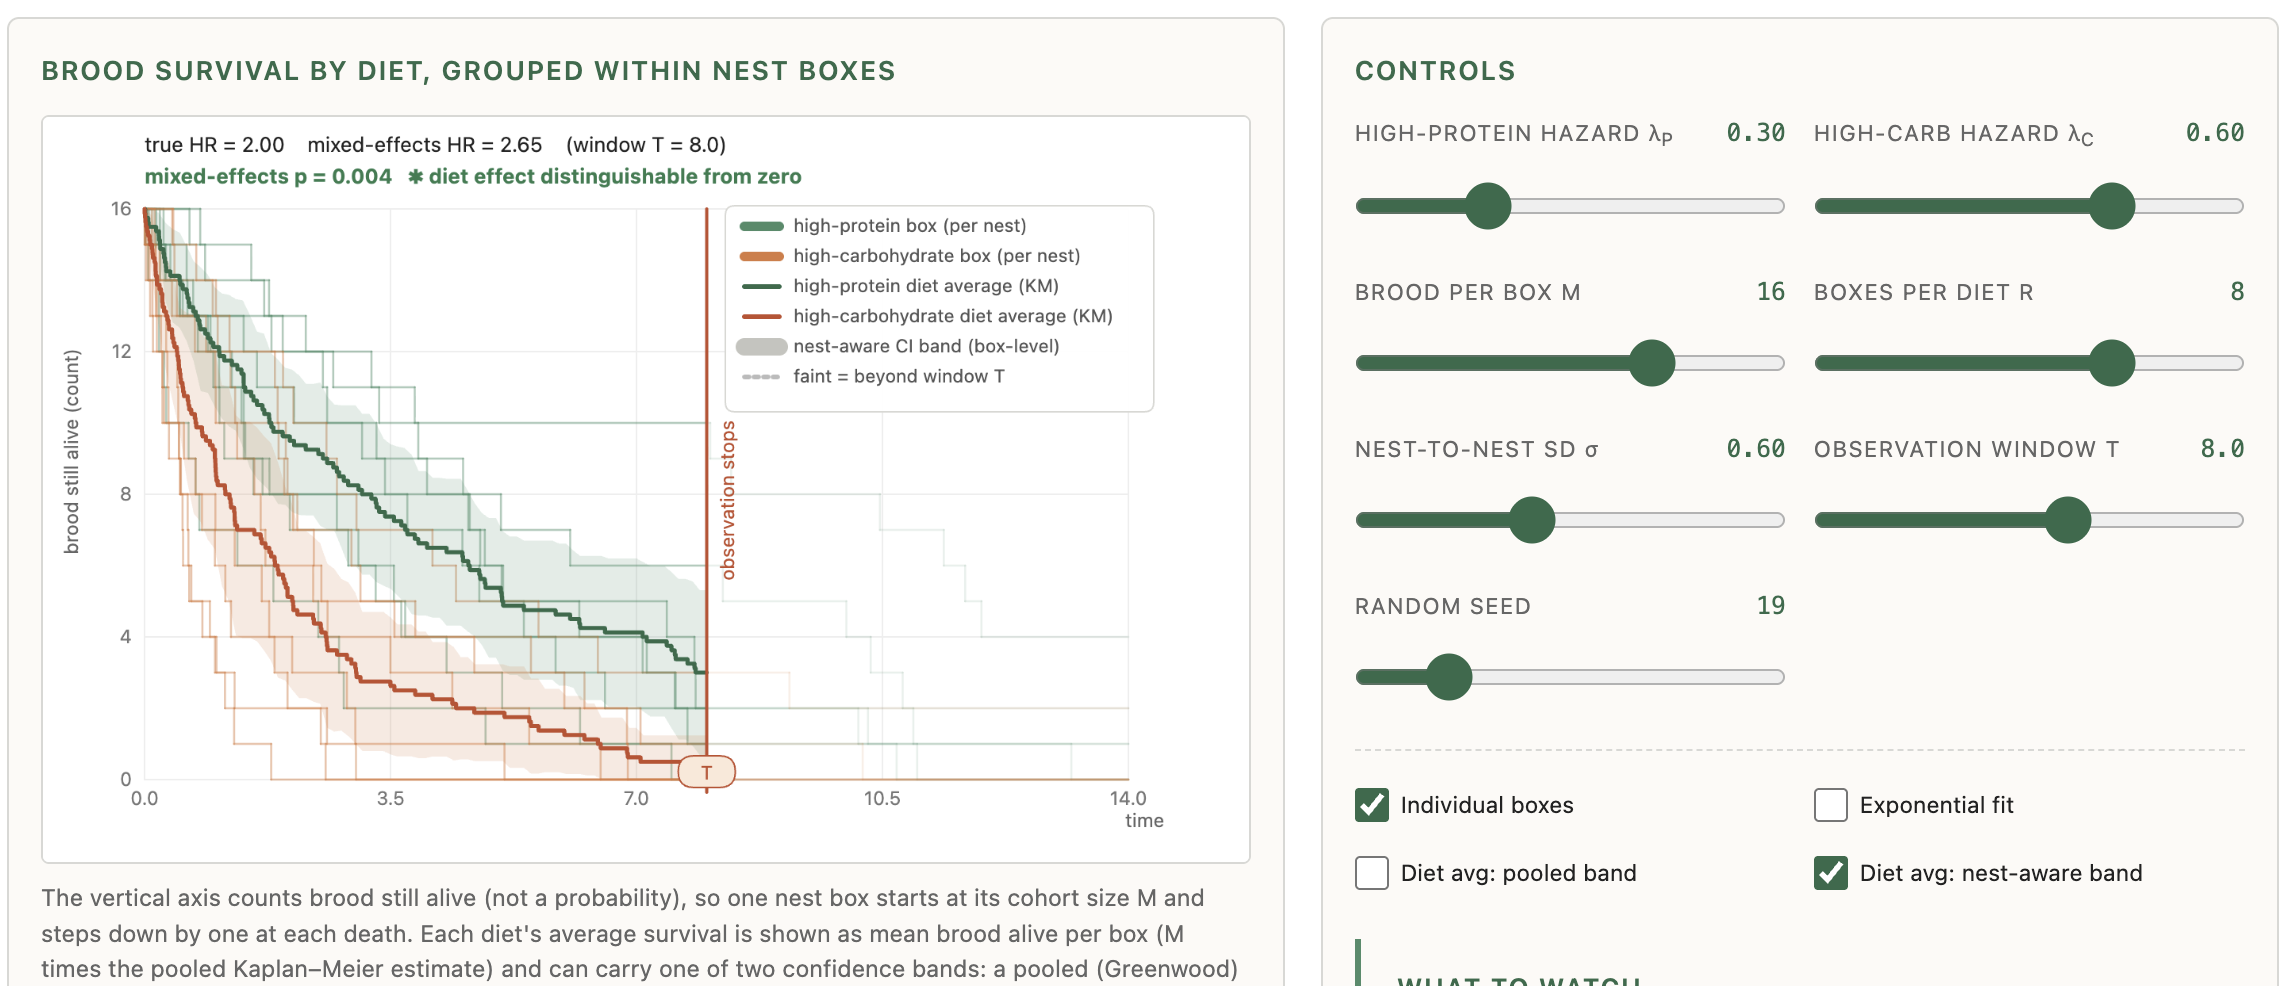
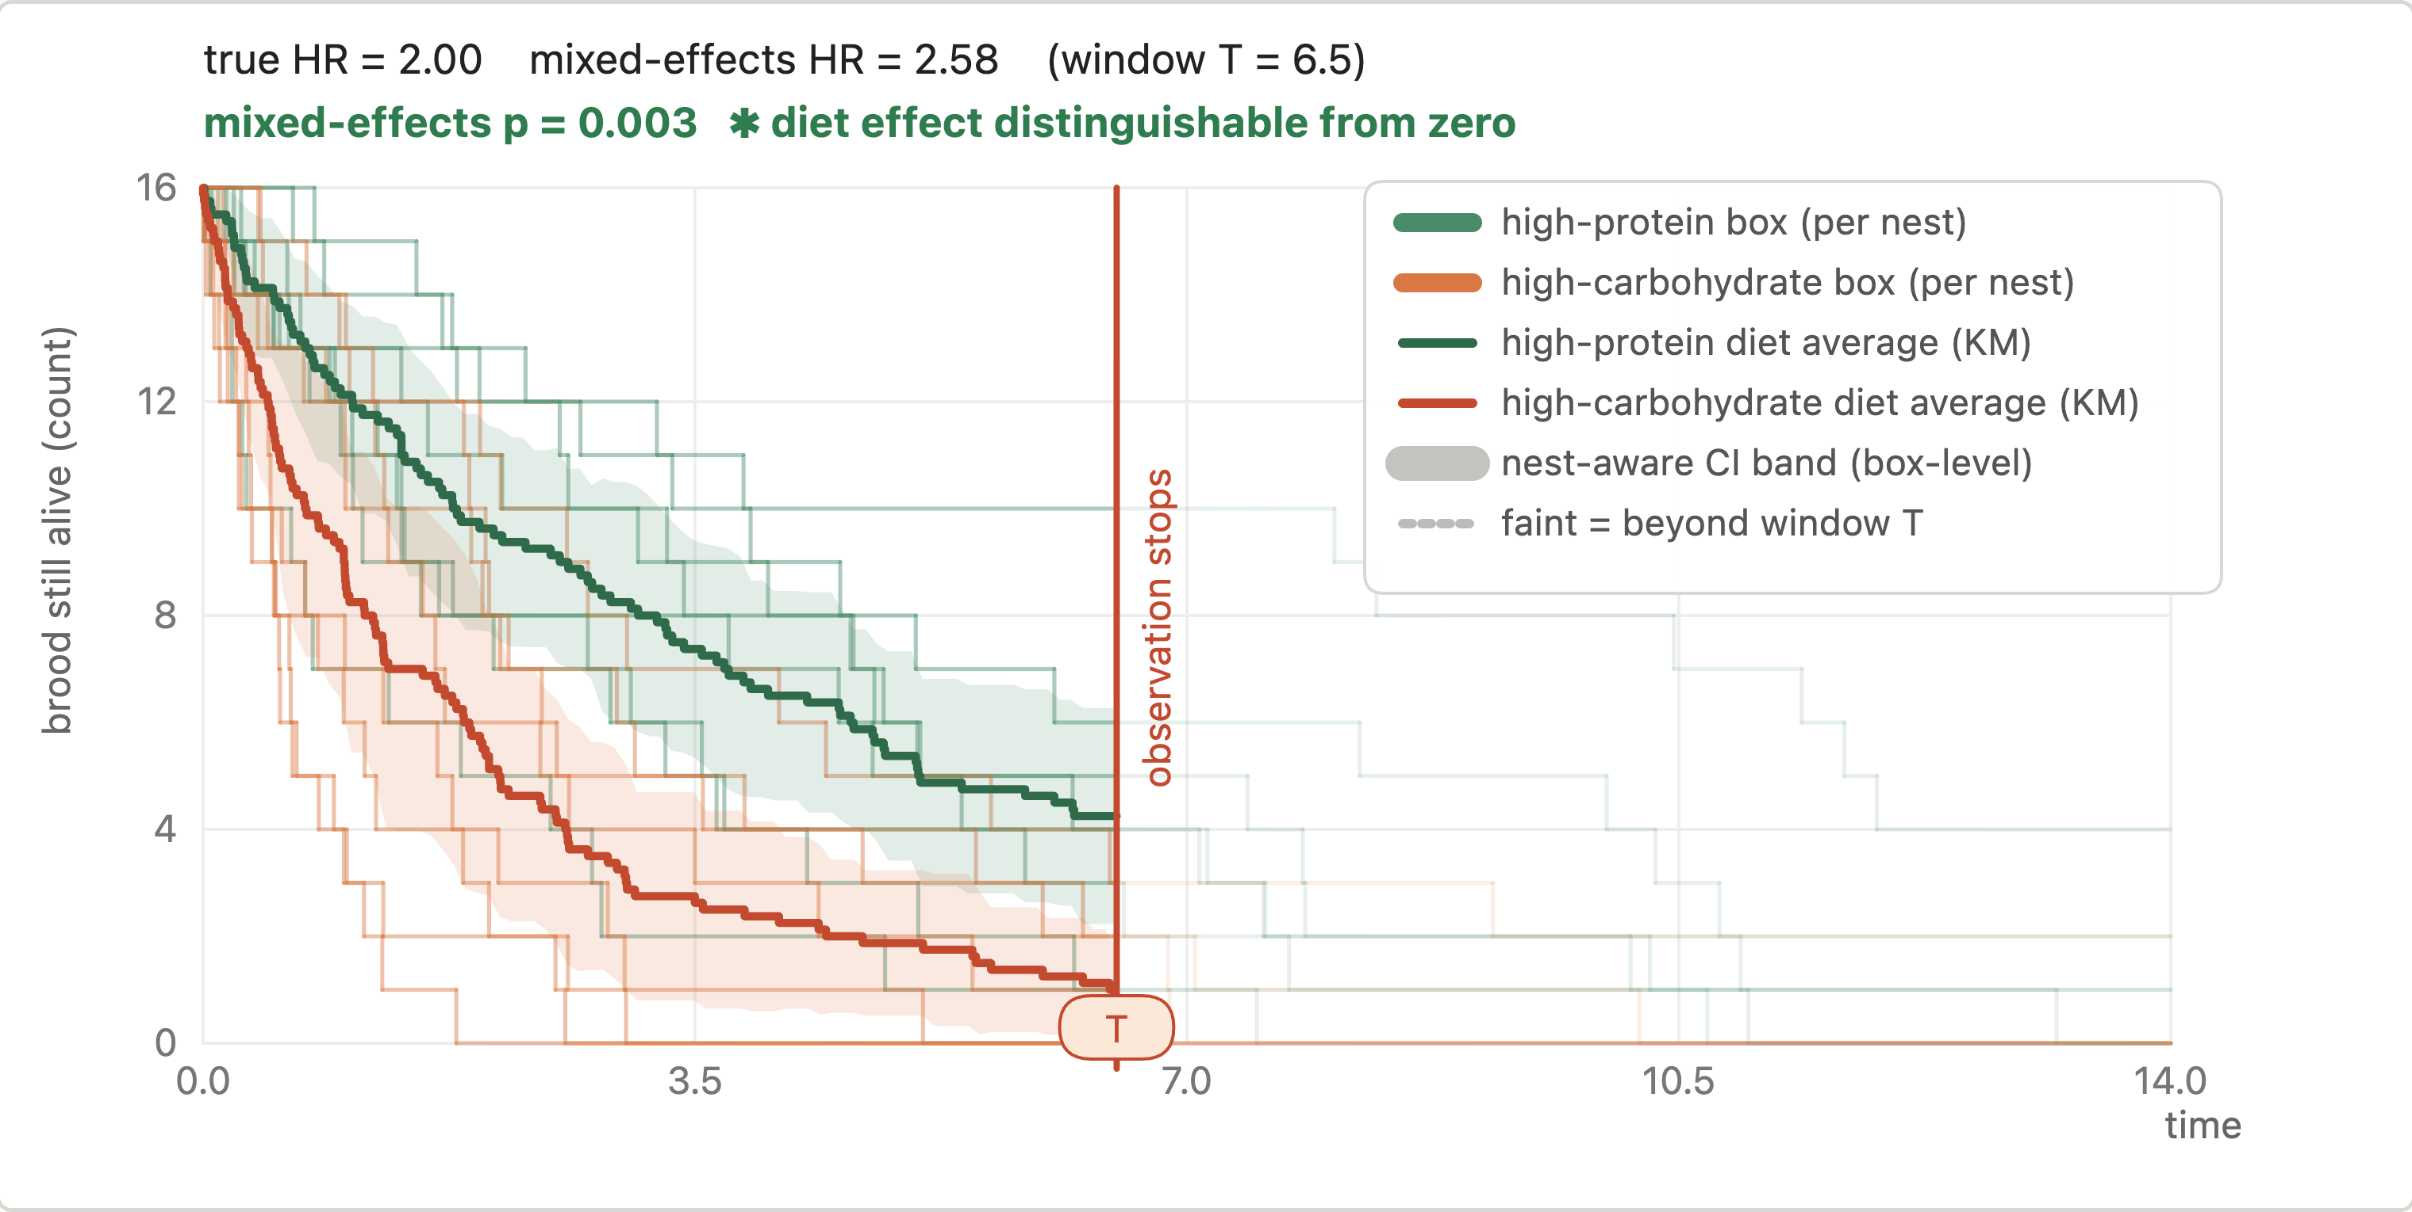
survival: Retake the preview as the brood survival chart alone at 2:1
The old 2.32:1 capture lost its left edge, the y axis and the steep start
of the curves, to the center crop of a 2:1 social card. The new image is
the hypothesis-testing tab's chart by itself, drawn at a 760x380 canvas
for the capture and taken at 4x, with the observation window at 6.5 so
the fence label clears the legend.

diff --git a/survival_analysis/survival_recurrent_visualizer.html b/survival_analysis/survival_recurrent_visualizer.html
@@ -12,8 +12,8 @@
 <meta property="og:title" content="Survival & Recurrent-Event Analysis Visualizer">
 <meta property="og:description" content="Interactive visualizer for survival analysis, recurrent-event survival analysis, exponential transition rates, censoring, and state-transition models.">
 <meta property="og:image" content="https://tpavlic.github.io/topic_visualizers/survival_analysis/survival_recurrent_visualizer-preview.png">
-<meta property="og:image:width" content="2288">
-<meta property="og:image:height" content="986">
+<meta property="og:image:width" content="2412">
+<meta property="og:image:height" content="1212">
 <meta property="og:url" content="https://tpavlic.github.io/topic_visualizers/survival_analysis/survival_recurrent_visualizer.html">
 <meta property="fb:app_id" content="2385695445236853">
 
